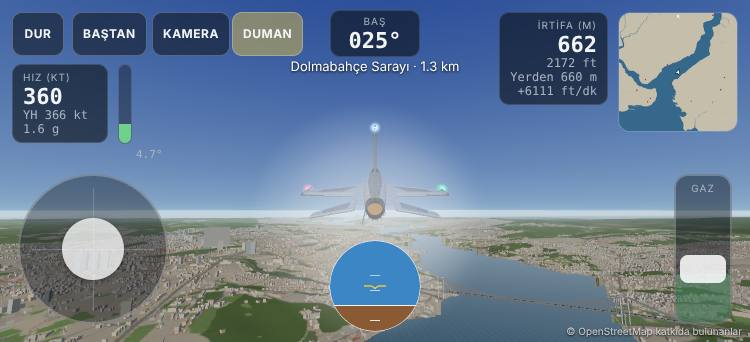
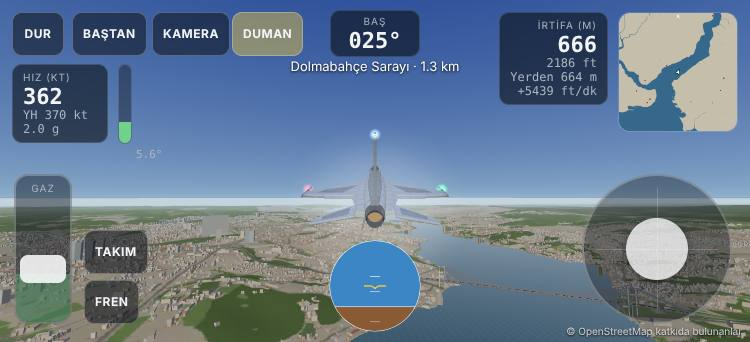
Uçuş: analog yine sağda, takım ve fren elle; levye bırakınca sarsılma düzeltildi
Claude-Session: https://claude.ai/code/session_019HWPbKRM2DXga1zKYf2HBw

diff --git a/ucak-simulatoru/www/index.html b/ucak-simulatoru/www/index.html
@@ -106,33 +106,35 @@ kbd { font: 600 12px ui-monospace, monospace; background: rgba(255,255,255,.1); 
 #touch { position: fixed; inset: 0; pointer-events: none; display: none; }
 body.touch #hud:not(.hide) ~ #touch { display: block; }
 #touch > * { pointer-events: auto; position: absolute; }
-#stick { left: calc(18px + var(--sal)); bottom: calc(18px + var(--sab)); width: 150px; height: 150px; border-radius: 50%; background: rgba(12,18,26,.38); border: 2px solid rgba(255,255,255,.25); touch-action: none; }
+#stick { right: calc(18px + var(--sar)); bottom: calc(18px + var(--sab)); width: 150px; height: 150px; border-radius: 50%; background: rgba(12,18,26,.38); border: 2px solid rgba(255,255,255,.25); touch-action: none; }
 #stick::before, #stick::after { content: ''; position: absolute; background: rgba(255,255,255,.18); }
 #stick::before { left: 50%; top: 12px; bottom: 12px; width: 1px; }
 #stick::after { top: 50%; left: 12px; right: 12px; height: 1px; }
 #knob { position: absolute; left: 50%; top: 50%; width: 62px; height: 62px; margin: -31px; border-radius: 50%; background: rgba(255,255,255,.75); box-shadow: 0 2px 8px rgba(0,0,0,.4); }
-#thr { right: calc(18px + var(--sar)); bottom: calc(18px + var(--sab)); width: 58px; height: 190px; border-radius: 14px; background: rgba(12,18,26,.45); border: 2px solid rgba(255,255,255,.25); touch-action: none; overflow: hidden; }
+#thr { left: calc(14px + var(--sal)); bottom: calc(18px + var(--sab)); width: 58px; height: 190px; border-radius: 14px; background: rgba(12,18,26,.45); border: 2px solid rgba(255,255,255,.25); touch-action: none; overflow: hidden; }
 #thrFill { position: absolute; left: 0; right: 0; bottom: 0; background: rgba(111,209,138,.35); }
 #thrKnob { position: absolute; left: 4px; right: 4px; height: 28px; border-radius: 8px; background: rgba(255,255,255,.85); }
 #thr span { position: absolute; top: 6px; left: 0; right: 0; text-align: center; font-size: 10px; letter-spacing: 1px; color: var(--dim); }
 .tb { min-width: 52px; min-height: 44px; padding: 0 10px; border-radius: 10px; border: 1px solid rgba(255,255,255,.25); background: rgba(12,18,26,.55); font-size: 12px; font-weight: 700; letter-spacing: .5px; touch-action: none; }
 .tb.on { background: rgba(255,207,51,.4); }
-#bFlapD { right: calc(88px + var(--sar)); bottom: calc(18px + var(--sab)); }
-#bFlapU { right: calc(88px + var(--sar)); bottom: calc(68px + var(--sab)); }
-#bBrake { right: calc(88px + var(--sar)); bottom: calc(118px + var(--sab)); }
-#bGear { right: calc(88px + var(--sar)); bottom: calc(168px + var(--sab)); }
+#bFlapD { left: calc(84px + var(--sal)); bottom: calc(18px + var(--sab)); }
+#bFlapU { left: calc(84px + var(--sal)); bottom: calc(68px + var(--sab)); }
+#bBrake { left: calc(84px + var(--sal)); bottom: calc(118px + var(--sab)); }
+#bGear { left: calc(84px + var(--sal)); bottom: calc(168px + var(--sab)); }
 #bSmoke { left: calc(232px + var(--sal)); top: calc(12px + var(--sat)); }
 #bMap { display: none; }
 body.touch #mini { pointer-events: auto; cursor: pointer; }
 .tb.two { line-height: 1.1; padding: 4px 10px; font-size: 11px; }
-#bTrimU { left: calc(96px + var(--sal)); bottom: calc(178px + var(--sab)); }
-#bTrimD { left: calc(18px + var(--sal)); bottom: calc(178px + var(--sab)); }
+#bTrimU { right: calc(96px + var(--sar)); bottom: calc(178px + var(--sab)); }
+#bTrimD { right: calc(18px + var(--sar)); bottom: calc(178px + var(--sab)); }
 #bPause { left: calc(12px + var(--sal)); top: calc(12px + var(--sat)); }
 #bReset { left: calc(72px + var(--sal)); top: calc(12px + var(--sat)); }
 #bCam { left: calc(152px + var(--sal)); top: calc(12px + var(--sat)); }
 #touchInfo { white-space: pre; right: calc(18px + var(--sar)); bottom: calc(228px + var(--sab)); font: 11px ui-monospace, Menlo, monospace; color: #fff; text-shadow: 0 1px 2px #000; pointer-events: none; text-align: right; }
 body.touch #pInfo { display: none; }
-body.easy #bFlapD, body.easy #bFlapU, body.easy #bBrake, body.easy #bGear, body.easy #bTrimU, body.easy #bTrimD { display: none; }
+body.easy #bFlapD, body.easy #bFlapU, body.easy #bTrimU, body.easy #bTrimD { display: none; }
+body.easy #bBrake { bottom: calc(18px + var(--sab)); }
+body.easy #bGear { bottom: calc(68px + var(--sab)); }
 body.touch #pSpd { top: calc(64px + var(--sat)); left: calc(12px + var(--sal)); }
 body.touch #aoa { top: calc(64px + var(--sat)); height: 80px; }
 body.touch #vAoa { top: calc(148px + var(--sat)); }
@@ -190,8 +192,8 @@ body.portrait #rot { display: flex; }
         <button class="opt" data-set="quality" data-val="orta">Orta</button>
         <button class="opt" data-set="quality" data-val="dusuk">Düşük</button>
       </div><div class="opts" style="margin-top:8px">
-        <button class="opt" data-set="easy" data-val="true">Kolay kumanda<small>Yalnız analog ve gaz. Flap, iniş takımı, fren ve trim kendiliğinden; uçak stall olmaz</small></button>
-        <button class="opt" data-set="easy" data-val="false">Gerçekçi<small>Flap, takım, fren ve trim elle</small></button>
+        <button class="opt" data-set="easy" data-val="true">Kolay kumanda<small>Flap ve trim kendiliğinden; uçak stall olmaz, bırakınca düz gider</small></button>
+        <button class="opt" data-set="easy" data-val="false">Gerçekçi<small>Flap ve trim de elle</small></button>
       </div><div class="opts" style="margin-top:8px">
         <button class="opt" data-set="autoRudder" data-val="true">Otomatik dümen açık<small>Dönüşte yan kaymayı siler; yerde levye burun tekerini çevirir</small></button>
         <button class="opt" data-set="autoRudder" data-val="false">Kapalı</button>

diff --git a/ucak-simulatoru/www/js/main.js b/ucak-simulatoru/www/js/main.js
@@ -395,7 +395,7 @@ function drawHUD(dt) {
     let m = '';
     if (o.V > P.Vne * 0.95 && airborne) m = 'AZAMİ HIZ';
     else if (ac.nz > P.nMax) m = 'YÜK SINIRI AŞILDI';
-    else if (STARTS[settings.start].rw && !STARTS[settings.start].approach && ac.onGround && ac.ctl.throttle < 0.05 && simTime < 8) m = isTouch && settings.easy ? 'Gazı sağdan sonuna kadar açın, hız artınca analogu yukarı itin' : P.id === 'f16' ? 'Tam gaz verin (ard yakıcı), 150 kt civarında levyeyi çekin' : 'Gazı açın (Shift / +), 55 kt civarında levyeyi çekin';
+    else if (STARTS[settings.start].rw && !STARTS[settings.start].approach && ac.onGround && ac.ctl.throttle < 0.05 && simTime < 8) m = isTouch && settings.easy ? 'Gazı soldan sonuna kadar açın, hız artınca analogu yukarı itin' : P.id === 'f16' ? 'Tam gaz verin (ard yakıcı), 150 kt civarında levyeyi çekin' : 'Gazı açın (Shift / +), 55 kt civarında levyeyi çekin';
     setT(hud.msg, m);
     drawMini(e.psi);
     if (mapOpen) drawBigMap();
@@ -493,21 +493,14 @@ function puff(p) {
   m.position.copy(p); scene.add(m); puffs.push({ m, t: 0 });
 }
 
-// ---------- kolay kumanda: flap, iniş takımı, fren ve trim kendiliğinden ----------
-// flap hıza göre (yavaşta açık), takım kalkıştan sonra toplanır, alçak ve yavaş inerken açılır; yerde gaz kapalıysa fren.
+// ---------- kolay kumanda: flap ve trim kendiliğinden ----------
+// flap hıza göre (yavaşta açık), trim sıfır (uçuş bilgisayarı uçuş yolunu kendisi tutar). Takım ve fren elle.
 const EASY_REF = { c172: 55, jet: 110, f16: 140 }; // kt, yaklaşma hızının altı
 function autoSystems(ac) {
   const P = ac.P, n = P.flapDetents.length - 1, v = ac.out.V / KT / (EASY_REF[P.id] || 100);
   if (ac.onGround) flapIdx = Math.min(1, n);
   else flapIdx = v < 1.2 ? n : v < 1.45 ? Math.max(1, n - 1) : v < 1.75 ? Math.min(1, n) : 0;
   ac.ctl.trim = 0;
-  ac.ctl.brake = ac.onGround && input.throttle < 0.04 ? 1 : 0;
-  if (P.retract) {
-    const agl = ac.out.agl || 0, vs = -ac.vel[2];
-    if (ac.onGround) ac.ctl.gearDown = true;
-    else if (ac.ctl.gearDown && agl > 25 && vs > 0.5) ac.ctl.gearDown = false;
-    else if (!ac.ctl.gearDown && agl < 120 && v < 1.9 && vs < 0) ac.ctl.gearDown = true;
-  }
 }
 
 // ---------- döngü ----------

diff --git a/ucak-simulatoru/www/js/fdm.js b/ucak-simulatoru/www/js/fdm.js
@@ -284,7 +284,7 @@ export class Aircraft {
     const aMax = gearDn ? F.aMaxGear : F.aMax;
     // yerde (tekerlek yükü varken) doğrudan kumanda: kalkışta burun yumuşak kalkar
     if (this.onGround) {
-      st.ia = 0;
+      st.ia = 0; st.u = null;
       const pitch = clamp(c.pitch + c.trim, -1, 1);
       return { deCmd: pitch >= 0 ? pitch * P.deUp * 0.8 : -pitch * P.deDown * 0.5, daCmd: clamp(c.roll, -1, 1) * P.daMax * 0.5, drCmd: -clamp(c.yaw, -1, 1) * P.drMax * 0.5 };
     }
@@ -296,7 +296,10 @@ export class Aircraft {
       if (cph > 0.5) n0 = clamp(cth / cph, -1, 2);
       else if (cph > 0) n0 = clamp(cth / 0.5, 0, 2) * (cph / 0.5) + m[8] * (1 - cph / 0.5);
     }
-    const u = clamp(c.pitch + c.trim, -1, 1);
+    // levye komutu yumuşatılır: bırakınca ya da ani çekişte uçak sıçramaz, yukarı-aşağı sallanmaz
+    const uRaw = clamp(c.pitch + c.trim, -1, 1);
+    st.u = st.u == null ? uRaw : st.u + (uRaw - st.u) * Math.min(1, dt / 0.3);
+    const u = st.u;
     const nHi = gearDn ? F.nMaxGear : F.nMax;
     const nCmd = u >= 0 ? n0 + u * (nHi - n0) : n0 + u * (n0 - F.nMin);
     // istenen g için gereken hücum açısı (kaldırma eğrisinin tersi) + tümlev düzeltmesi

diff --git a/ucak-simulatoru/README.md b/ucak-simulatoru/README.md
@@ -219,3 +219,8 @@ Eymen: "analog solda, gaz sağda; trim, flap olmasın; yukarıysa yukarı, ne ka
   - Flap hıza göre, iniş takımı kalkışta toplanır / alçak ve yavaş inerken açılır, yerde gaz kapalıyken fren (`autoSystems()` in `main.js`).
 - **Gerçekçi** seçilirse eski düğmeler (flap, takım, fren, trim) geri gelir.
 - Testler: `fizik-test` hepsi geçti; tarayıcıda kolay modda Cessna kalkışı 334 m, jet taklası 362°, tonoz 262°/sn; iPhone'da analog solda, gaz sağda, gizli düğmeler yok, analog yukarı → burun yukarı (37°/sn).
+
+### 22 Kasım (gece): düzeltme
+
+- Analog yine sağda, gaz solda. TAKIM ve FREN düğmeleri geri geldi (elle); kolay kumandada yalnız flap ve trim kendiliğinden.
+- **Sarsıntı (hata):** analog bırakılınca uçuş bilgisayarı istenen g'ye bir anda atlıyor, aşıp yukarı-aşağı sallanıyordu (F-16 350 kt: −2,2 g'den +2,1 g'ye taşma, 200 kt'ta iki salınım). Levye komutu artık 0,3 sn'lik süzgeçten geçiyor (`_fbw`, `st.u`); bırakınca g tek yönde, taşmadan 1'e iner. Fizik testlerinin hepsi geçti.
